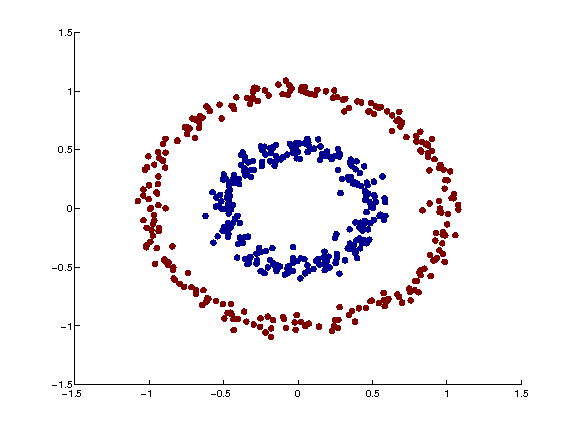
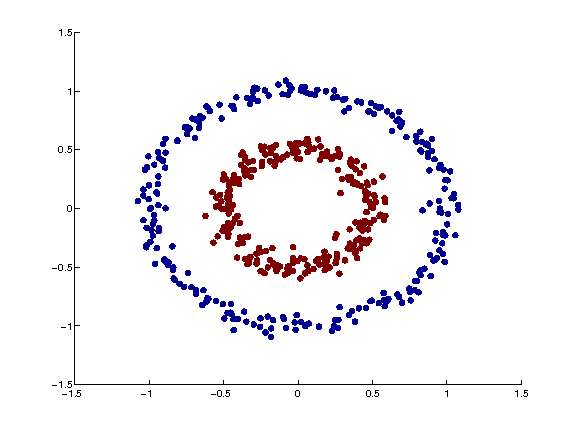
Add alt implementation

Changed region(s): [[0.2188, 0.1806, 0.8125, 0.7824], [0.3438, 0.3009, 0.6875, 0.662]]

diff --git a/2015_Fall/CSCI-567/Homework5/kkkmeans.m b/2015_Fall/CSCI-567/Homework5/kkkmeans.m
@@ -1,12 +1,19 @@
-function [clusters_new] = kmeans(data, k)
+function [clusters_new] = kkkmeans(data)
 %Random initilisation of clusters
+k=2;
 rows = size(data,1);
-clusters_old = repmat(3,rows,1);
-clusters_new = repmat(5,rows,1);
-initial_indices = randi([1 rows], 1, k);
-%mu = datasample(data, k, 'Replace', false);
-mu = data(initial_indices, :);
+kernel = poly_kernel(-5, 1, data);
+rows = size(kernel,1);
+clusters_old = repmat(1,rows,1);
+clusters_new = repmat(1,rows,1);
 iterations = 0;
+
+norm_data = sum(data.^2,2);
+min_pos = find(norm_data == min(norm_data));
+clusters_new(min_pos,:) = 2;
+mu2 = sum(data,1)-data(min_pos,:);
+mu = [data(min_pos,:);mu2/(rows-1)];
+
 while any(clusters_old~=clusters_new)
     distances = pdist2(data, mu);
     [M, I] = min(distances, [], 2);

diff --git a/2015_Fall/CSCI-567/Homework5/kernelkmeans.m b/2015_Fall/CSCI-567/Homework5/kernelkmeans.m
@@ -1,8 +1,8 @@
 function [clusters] = kernelkmeans(circle)
 K = 2;
 %Random initilisation of clusters
-%kernel = rbf_kernel(0.1, circle);
-kernel = poly_kernel(-5, 1, circle);
+kernel = rbf_kernel(0.1, circle);
+%kernel = poly_kernel(-5, 1, circle);
 rows = size(kernel,1);
 clusters_old = repmat([0 1], rows, 1);
 clusters_new = repmat([1 0], rows, 1);

diff --git a/2015_Fall/CSCI-567/Homework5/run_problem_43.m b/2015_Fall/CSCI-567/Homework5/run_problem_43.m
@@ -5,6 +5,7 @@ data = load('hw5_circle.mat');
 circle = data.points;
 kernel = rbf_kernel(0.1, circle);
 %kernel = poly_kernel(-5, 1, circle);
-clusters = kernelkmeans(kernel);
+%clusters = kernelkmeans(kernel);
+clusters = kkkmeans(kernel);
 scatter(circle(:,1), circle(:,2), [], clusters, 'filled');
 print(sprintf('kcircle-%d',k), '-dpng');
